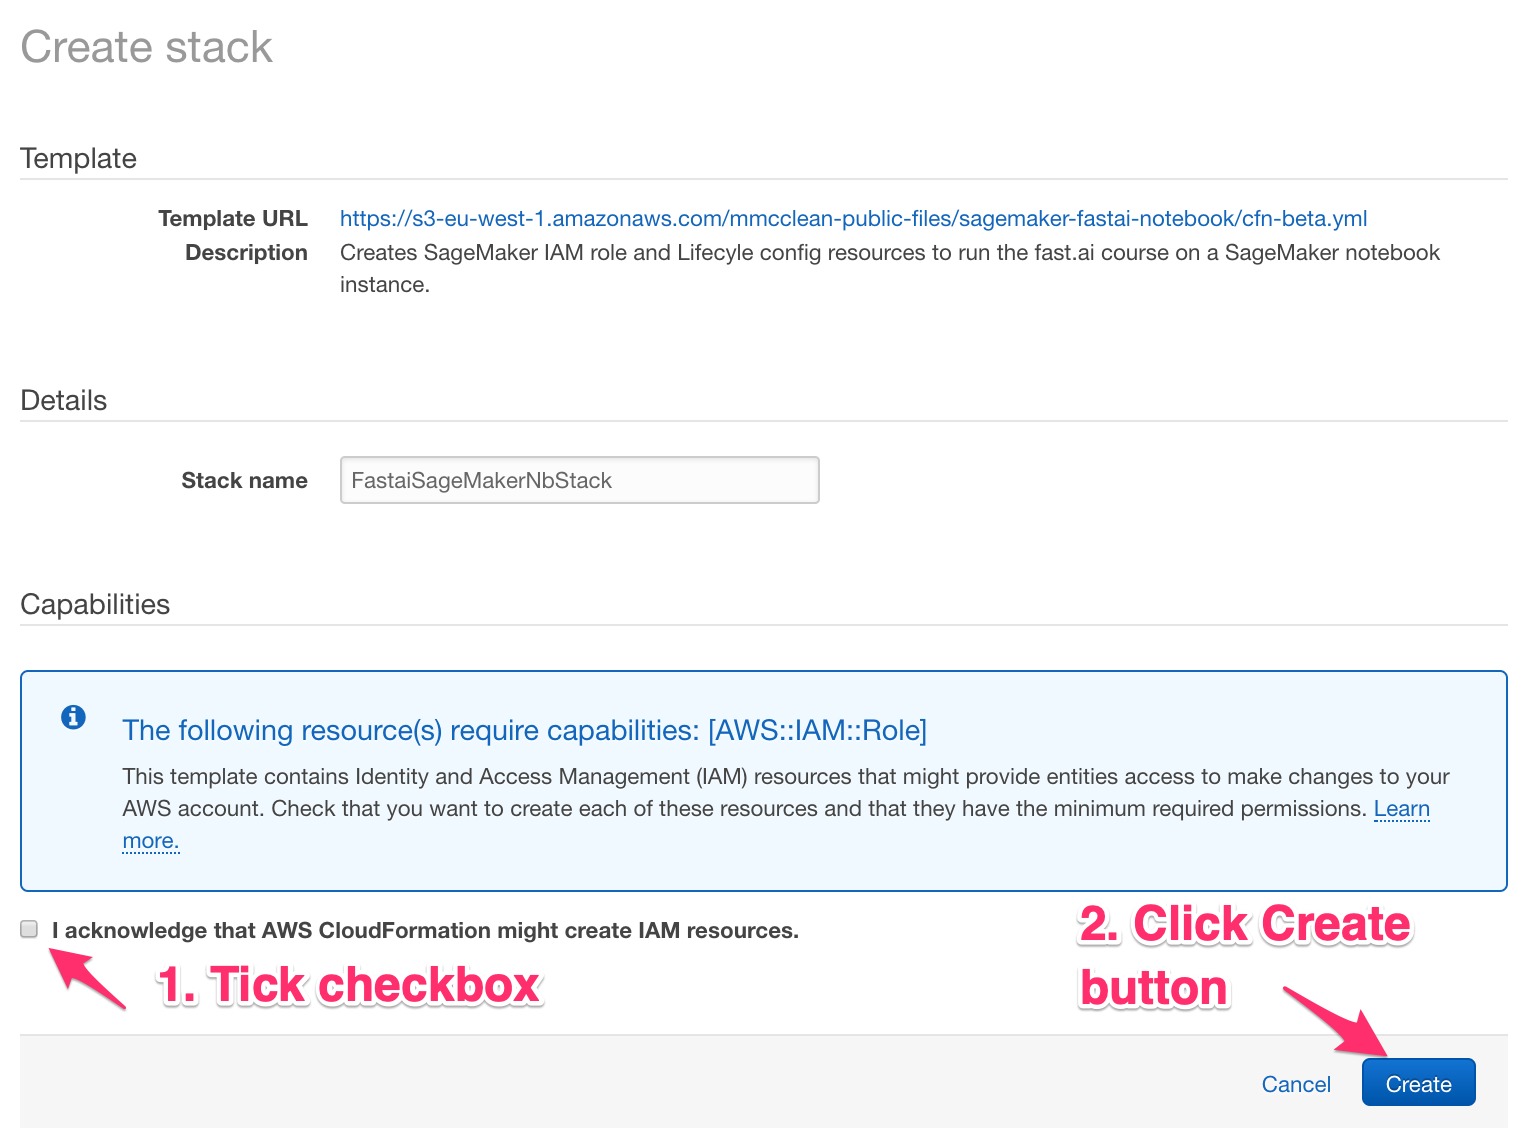
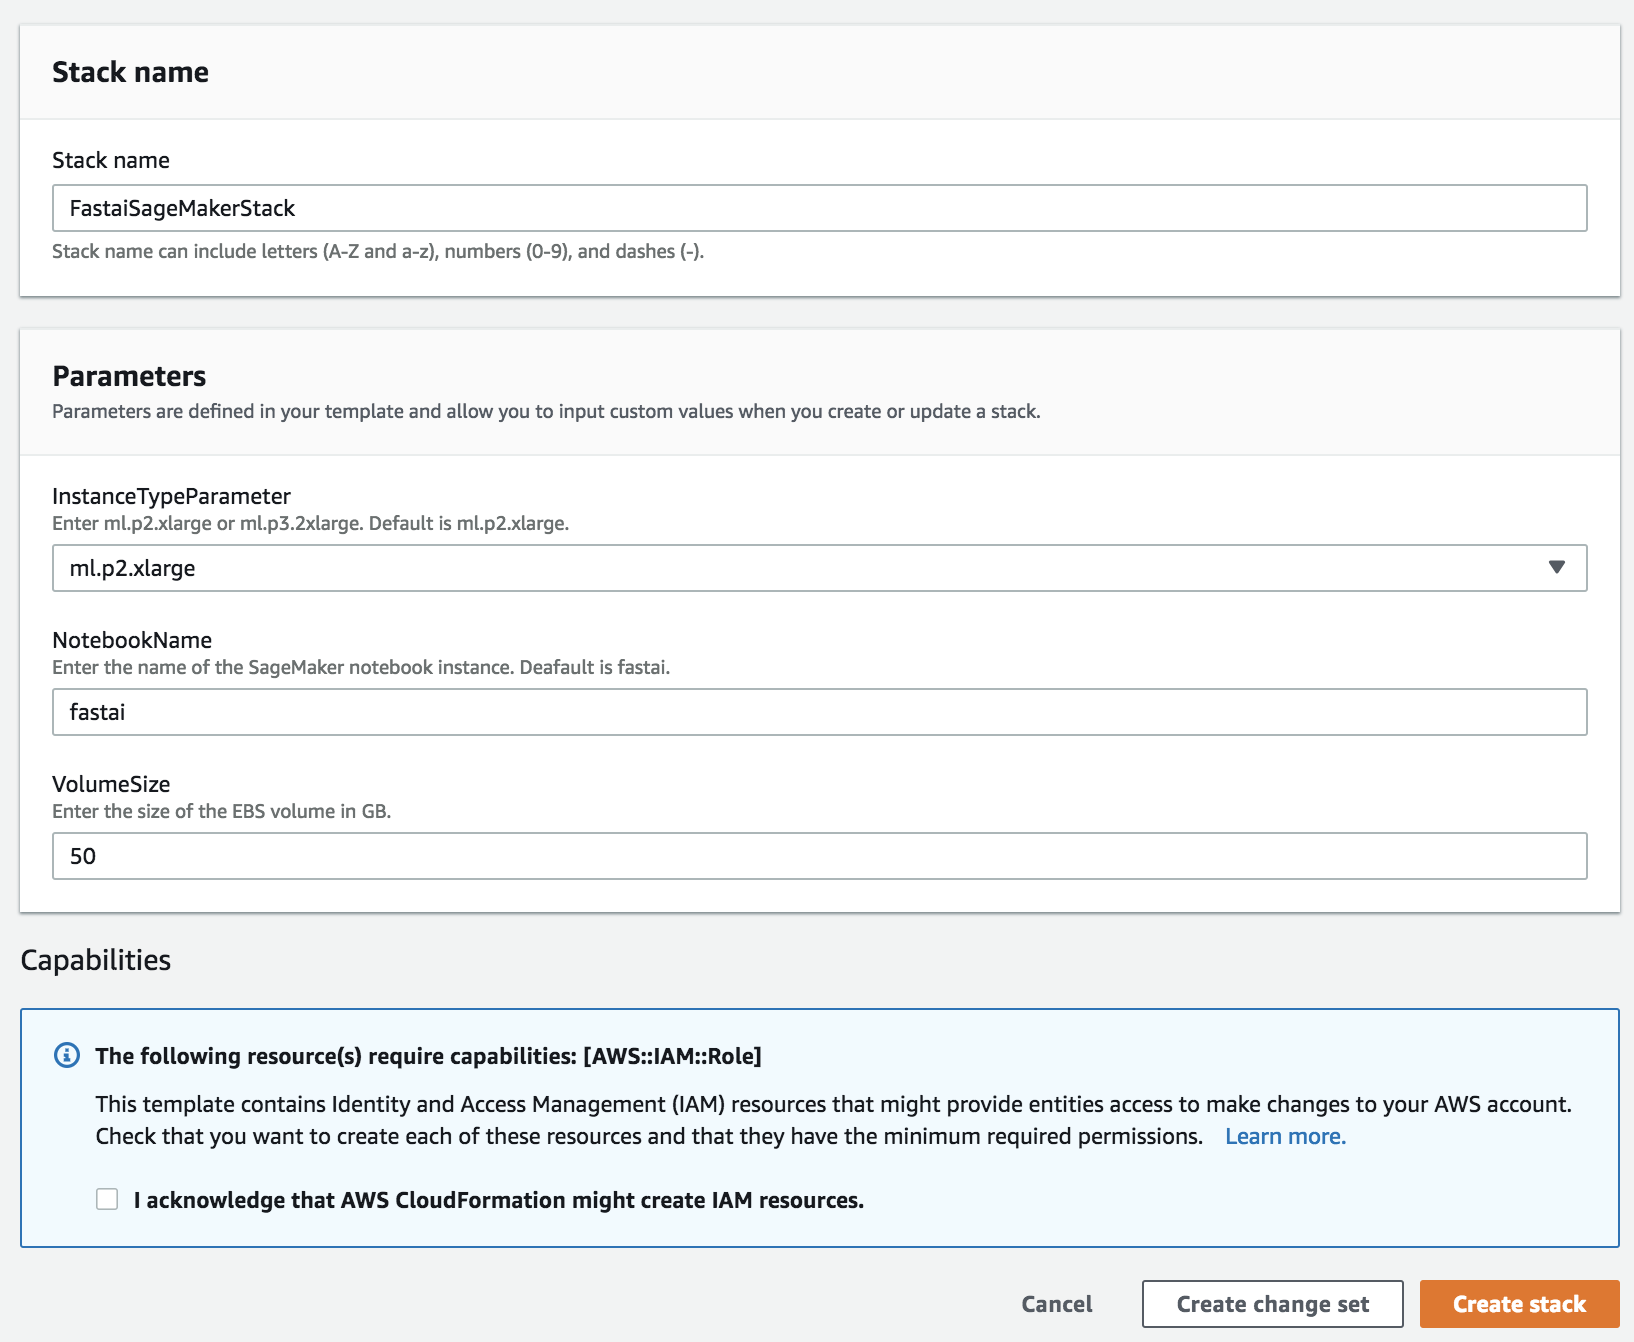
Updated create SageMaker notebook instance workflow (#233)
* modified sagemaker docs to use CFN template with lifecycle config instead of manual steps

* modified alt tags

* added tab to img

* added tab to img

* added another number

* indended table correctly

* changed imgs path for sagemaker screenshots

* rolled back sagemaker docs

* added sagemaker create and start scripts

* updated update sagemaker docs page

* removed note about not saving models or data

* merged

* modified docs to create LC and IAM role with CFN

* updated cfn filename

* changed cfn stack name

* updated sagemaker scripts

* fixed bug in the sagemaker create script

* updated sagemaker scripts to install jupyter nbextensions

* start script now kills jupyter notebook server rather than server reboot

* changed order of start scripts

* updated to install stable pytorch

* added fix to setup fastai kernel correctly

* fixed merge comments

* added SageMaker production deployment guide

* updated sidebar, added python code formatting, added pricing info

* cleaned up docs for SageMaker hosting

* updated SageMaker create worflow to be fully automated with CFN

* updated parameter name

* fixed parameter name bug

diff --git a/docs/start_sagemaker.md b/docs/start_sagemaker.md
@@ -8,7 +8,7 @@ This is a quick guide to starting v3 of the fast.ai course Practical Deep Learni
 
 If you are returning to work and have previously completed the steps below, please go to the [returning to work](https://course.fast.ai/update_sagemaker.html) section.
 
-We will use [AWS CloudFormation](https://aws.amazon.com/cloudformation/) to provision the SageMaker notebook lifecycle configuration and IAM role for the notebook instance. We will create the SageMaker notebook instance manually.
+We will use [AWS CloudFormation](https://aws.amazon.com/cloudformation/) to provision all of the SageMaker resources including the Notebook instance, Notebook Lifecyle configuration and IAM role. Be default it will provision a SageMaker notebook of instance type *ml.p2.xlarge* which has the Nvidia K80 GPU and 50 GB of EBS disk space.
 
 ## Pricing
 
@@ -24,56 +24,37 @@ The instance we suggest, ml.p2.xlarge, is $1.26 an hour. The hourly rate is depe
 
     If you do not have an account, the button to press will say 'Sign up' instead of 'Sign in to the Console'. If you are signing up you will also need to set your credit card details. This will be the credit card to which all the charges of the instance usage will be applied (if you have free credits you will not be charged until they are over). Note that you will also need to provide a phone number that will be called to verify your identity.
 
-1. Once you have an account and are logged in we are ready to create the SageMaker Notebook Lifecycle Configuration and IAM role that will be both linked to the SageMaker Notebook Instance. Click the *Launch Stack* button for the closest region to where you live **in the table below** . 
+1. Once you have an account and are logged in we are ready to create all the SageMaker resources using CloudFormation. To lauch the CloudFormation stack click the *Launch Stack* button for the closest region to where you live **in the table below** . 
 
     Region | Name | Launch link
     --- | --- | ---
     US West (Oregon) Region | us-west-2 | [![CloudFormation](/images/aws/cfn-launch-stack.png)](https://us-west-2.console.aws.amazon.com/cloudformation/home?region=us-west-2#/stacks/create/review?filter=active&templateURL=https%3A%2F%2Fs3-eu-west-1.amazonaws.com%2Fmmcclean-public-files%2Fsagemaker-fastai-notebook%2Fsagemaker-cfn.yml&stackName=FastaiSageMakerStack)
     US East (N. Virginia) Region | us-east-1 | [![CloudFormation](/images/aws/cfn-launch-stack.png)](https://us-east-1.console.aws.amazon.com/cloudformation/home?region=us-east-1#/stacks/create/review?filter=active&templateURL=https%3A%2F%2Fs3-eu-west-1.amazonaws.com%2Fmmcclean-public-files%2Fsagemaker-fastai-notebook%2Fsagemaker-cfn.yml&stackName=FastaiSageMakerStack)
     US East (Ohio) Region | us-east-2 | [![CloudFormation](/images/aws/cfn-launch-stack.png)](https://us-east-2.console.aws.amazon.com/cloudformation/home?region=us-east-2#/stacks/create/review?filter=active&templateURL=https%3A%2F%2Fs3-eu-west-1.amazonaws.com%2Fmmcclean-public-files%2Fsagemaker-fastai-notebook%2Fsagemaker-cfn.yml&stackName=FastaiSageMakerStack)
+    US East (N. California) Region | us-west-1 | [![CloudFormation](/images/aws/cfn-launch-stack.png)](https://us-west-1.console.aws.amazon.com/cloudformation/home?region=us-west-1#/stacks/create/review?filter=active&templateURL=https%3A%2F%2Fs3-eu-west-1.amazonaws.com%2Fmmcclean-public-files%2Fsagemaker-fastai-notebook%2Fsagemaker-cfn.yml&stackName=FastaiSageMakerStack)    
     Asia Pacific (Tokyo) Region | ap-northeast-1 | [![CloudFormation](/images/aws/cfn-launch-stack.png)](https://ap-northeast-1.console.aws.amazon.com/cloudformation/home?region=ap-northeast-1#/stacks/create/review?filter=active&templateURL=https%3A%2F%2Fs3-eu-west-1.amazonaws.com%2Fmmcclean-public-files%2Fsagemaker-fastai-notebook%2Fsagemaker-cfn.yml&stackName=FastaiSageMakerStack)
     Asia Pacific (Seoul) Region | ap-northeast-2 | [![CloudFormation](/images/aws/cfn-launch-stack.png)](https://ap-northeast-2.console.aws.amazon.com/cloudformation/home?region=ap-northeast-2#/stacks/create/review?filter=active&templateURL=https%3A%2F%2Fs3-eu-west-1.amazonaws.com%2Fmmcclean-public-files%2Fsagemaker-fastai-notebook%2Fsagemaker-cfn.yml&stackName=FastaiSageMakerStack)
     Asia Pacific (Sydney) Region | ap-southeast-2 | [![CloudFormation](/images/aws/cfn-launch-stack.png)](https://ap-southeast-2.console.aws.amazon.com/cloudformation/home?region=ap-southeast-2#/stacks/create/review?filter=active&templateURL=https%3A%2F%2Fs3-eu-west-1.amazonaws.com%2Fmmcclean-public-files%2Fsagemaker-fastai-notebook%2Fsagemaker-cfn.yml&stackName=FastaiSageMakerStack)
+    Asia Pacific (Mumbai) Region | ap-south-1 | [![CloudFormation](/images/aws/cfn-launch-stack.png)](https://ap-south-1console.aws.amazon.com/cloudformation/home?region=ap-south-1#/stacks/create/review?filter=active&templateURL=https%3A%2F%2Fs3-eu-west-1.amazonaws.com%2Fmmcclean-public-files%2Fsagemaker-fastai-notebook%2Fsagemaker-cfn.yml&stackName=FastaiSageMakerStack) 
+    Asia Pacific (Singapore) Region | ap-southeast-1 | [![CloudFormation](/images/aws/cfn-launch-stack.png)](https://ap-south-1console.aws.amazon.com/cloudformation/home?region=ap-southeast-1#/stacks/create/review?filter=active&templateURL=https%3A%2F%2Fs3-eu-west-1.amazonaws.com%2Fmmcclean-public-files%2Fsagemaker-fastai-notebook%2Fsagemaker-cfn.yml&stackName=FastaiSageMakerStack)           
+    Canada (central) Region | ca-central-1 | [![CloudFormation](/images/aws/cfn-launch-stack.png)](https://ca-central-1.console.aws.amazon.com/cloudformation/home?region=ca-central-1#/stacks/create/review?filter=active&templateURL=https%3A%2F%2Fs3-eu-west-1.amazonaws.com%2Fmmcclean-public-files%2Fsagemaker-fastai-notebook%2Fsagemaker-cfn.yml&stackName=FastaiSageMakerStack)       
     EU (Ireland) Region | eu-west-1 | [![CloudFormation](/images/aws/cfn-launch-stack.png)](https://eu-west-1.console.aws.amazon.com/cloudformation/home?region=eu-west-1#/stacks/create/review?filter=active&templateURL=https%3A%2F%2Fs3-eu-west-1.amazonaws.com%2Fmmcclean-public-files%2Fsagemaker-fastai-notebook%2Fsagemaker-cfn.yml&stackName=FastaiSageMakerStack)
     EU (Frankfurt) Region | eu-central-1 | [![CloudFormation](/images/aws/cfn-launch-stack.png)](https://eu-central-1.console.aws.amazon.com/cloudformation/home?region=eu-central-1#/stacks/create/review?filter=active&templateURL=https%3A%2F%2Fs3-eu-west-1.amazonaws.com%2Fmmcclean-public-files%2Fsagemaker-fastai-notebook%2Fsagemaker-cfn.yml&stackName=FastaiSageMakerStack)
+    EU (London) Region | eu-west-2 | [![CloudFormation](/images/aws/cfn-launch-stack.png)](https://eu-west-2.console.aws.amazon.com/cloudformation/home?region=eu-west-2#/stacks/create/review?filter=active&templateURL=https%3A%2F%2Fs3-eu-west-1.amazonaws.com%2Fmmcclean-public-files%2Fsagemaker-fastai-notebook%2Fsagemaker-cfn.yml&stackName=FastaiSageMakerStack)    
 
-1. This will open the AWS CloudFormation web console with the template to create the AWS resources already loaded as per the screenshot below. Tick the option box to acknowledge that IAM resources will be created and then click the *Create* button to create the stack.
+1. This will open the AWS CloudFormation web console with the template to create the AWS resources as per the screenshot below. Take a look at the input parameters and either accept the defaults or update them as necessary. Select the option box **I acknowledge that AWS CloudFormation might create IAM resources.** and then click the **Create** button to create the stack.
 
     <img alt="create stack" src="/images/sagemaker/create_stack.png" class="screenshot">
 
-1. You will see the following CloudFormation page showing the stack is being created. Take note of the Notebook Lifecycle Config resource and IAM role created by CloudFormation. You will need these values when manually creating the SageMaker Notebook instance.
-
-    <img alt="stack complete" src="/images/sagemaker/stack_complete.png" class="screenshot">
-
-1. Once the stack reaches the *CREATE_COMPLETE* state then open the AWS web console and click *Services* in the top bar, and type 'sagemaker'. You can then click *Amazon SageMaker*.
+1. You will see the following CloudFormation page showing the stack is being created. Once the stack reaches the **CREATE_COMPLETE** state then open the AWS web console and click *Services* in the top bar, and type 'sagemaker'. You can then click *Amazon SageMaker*.
 
    <img alt="sage" src="/images/sagemaker/01.png" class="screenshot">
 
-1. On the left navigation bar, choose *Notebook instances*. This is where we create, manage, and access our notebook instances.
-
-    <img alt="notebook instance" src="/images/sagemaker/08b.png" class="screenshot">
-
-1. Click *Create notebook instance*.
-
-    <img alt="create nb instance" src="/images/sagemaker/09.png" class="screenshot">
-
-1. Enter *fastai* in the name, and in the instance type field enter *ml.p2.xlarge* or *ml.p3.2xlarge* and for volume size enter *50* GB. For the IAM role and Lifecycle Config copy the output values from the CloudFormation stack output. It should look something similar to the screenshot below.
-
-   <img alt="create notebook" src="/images/sagemaker/sagemaker_notebook_create.png" class="screenshot">
-
-1. Once it's entered correctly, click *Create notebook instance* at the bottom of the screen.
-
-    <img alt="click" src="/images/sagemaker/14.png" class="screenshot">
-
-1. You will receive a message that the instance is being created.
-
-    <img alt="message" src="/images/sagemaker/15.png" class="screenshot">
-
-1. For around 5 minutes it will show as *Pending* and you will not be able to access it.
+1. On the left navigation bar, choose *Notebook instances*. This is where we create, manage, and access our notebook instances. You should see that your notebook instance named **fastai** status is *InService* as per the screenshot below.
 
    <img alt="pending" src="/images/sagemaker/16.png" class="screenshot">
 
-1. It will take around 10 minutes to fully setup your notebook instance with the fastai library. You will know when it is ready when the Jupyter kernel name *Python 3* is available and a 'course-v3' folder appears in your Jupyter Notebook window.
+1. Click on the *Open Jupyter* link to open your Jupyter web console as per the screenshot below.
 
 ### Shutting down your instance
 

diff --git a/docs/deployment_amzn_sagemaker.md b/docs/deployment_amzn_sagemaker.md
@@ -87,9 +87,7 @@ model_artefact = sagemaker_session.upload_data(path=str(path_img/'models/model.t
 
 ## Create model serving script
 
-Now we are ready to deploy our model to the SageMaker model hosting service. We will use the SageMaker Pytthon SDK to do this.
-
-Since fast.ai is built on Pytorch we can use the built-in support SageMaker has for Pytorch. All we need to do is create a script for the model serving logic. For more information on how the PyTorch model serving works check the project page [here](https://github.com/aws/sagemaker-python-sdk/tree/master/src/sagemaker/pytorch#sagemaker-pytorch-model-server).
+Now we are ready to deploy our model to the SageMaker model hosting service. We will use the [SageMaker Python SDK](https://github.com/aws/sagemaker-python-sdk) with the Amazon SageMaker [open-source PyTorch container](https://github.com/aws/sagemaker-pytorch-container) as this container has support for the fast.ai library. Using one of the pre-defined Amazon SageMaker containers makes it easy to write a script and then run it in Amazon SageMaker in just a few steps.
 
 To serve models in SageMaker, we need a script that implements 4 methods: `model_fn`, `input_fn`, `predict_fn` & `output_fn`. 
 * The `model_fn` method needs to load the PyTorch model from the saved weights from disk. 
@@ -98,6 +96,8 @@ To serve models in SageMaker, we need a script that implements 4 methods: `model
 * The `output_fn` method takes the result of prediction and serializes this according to the response content type.
 
 The methods `input_fn` and `input_fn` are optional and if obmitted SageMaker will assume the input and output objects are of type [NPY](https://docs.scipy.org/doc/numpy/neps/npy-format.html) format with Content-Type `application/x-npy`.
+
+For more information on how the PyTorch model serving works check the project page [here](https://github.com/aws/sagemaker-python-sdk/tree/master/src/sagemaker/pytorch#sagemaker-pytorch-model-server).
 
 An example script to serve a vision resnet model can be found below:
 
@@ -111,6 +111,7 @@ logger.setLevel(logging.DEBUG)
 JSON_CONTENT_TYPE = 'application/json'
 JPEG_CONTENT_TYPE = 'image/jpeg'
 
+# loads the model into memory from disk and returns it
 def model_fn(model_dir):
     logger.info('model_fn')
     path = Path(model_dir)

diff --git a/docs/update_sagemaker.md b/docs/update_sagemaker.md
@@ -32,10 +32,8 @@ When it turns green, just click on 'Open' and you'll be back to your notebooks.
 
 <img alt="ready" src="/images/sagemaker/17.png" class="screenshot">
 
-### Running custom code on notebook instance start
-The SageMaker notebook will contain a custom script that will be run each time the notebook instance is started. The script can be found at the path `/home/ec2-user/SageMaker/custom-start-script.sh`.
-
-The default behaviour is to update the fastai courses GitHub repository.
+### Updating start script
+Every time the Notebook instance is started it will run a [Lifecycle Configuration](https://aws.amazon.com/blogs/machine-learning/customize-your-amazon-sagemaker-notebook-instances-with-lifecycle-configurations-and-the-option-to-disable-internet-access/) script. To update the start script, select 'Notebook instances' on the left menu and then select the Lifecycle configuration name that starts with *FastaiNbLifecycleConfig*. Select the **Edit** button and now you will be able to update the **Start notebook** script to perform custom actions.
 
 ### Stop your instance
 When you finish working you must go back to your [AWS console](https://us-west-2.console.aws.amazon.com/sagemaker) and stop your instance manually to avoid getting extra charges. Just pick the notebook you want to stop and click on the 'Stop' button next to its name.
